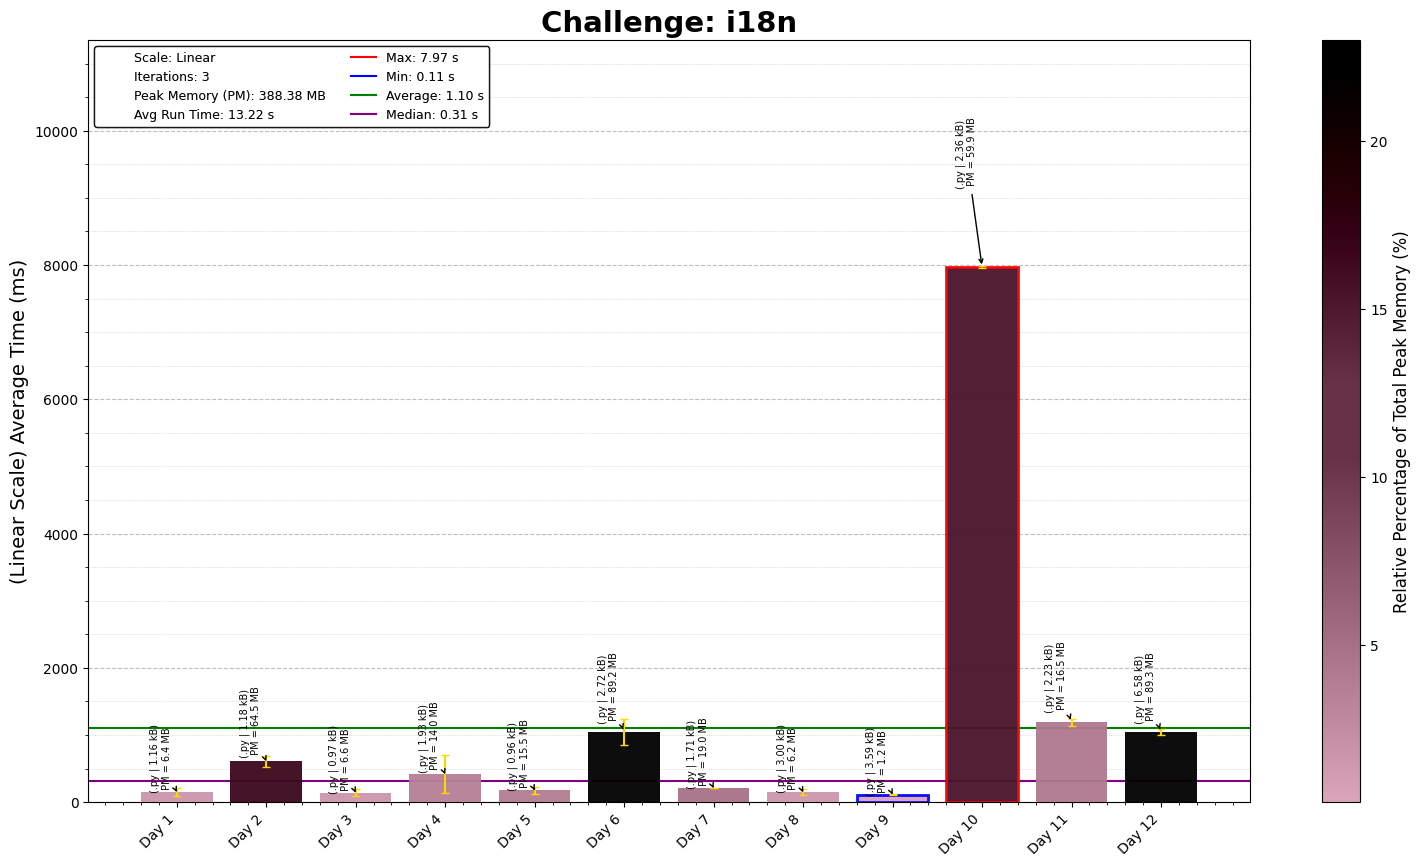
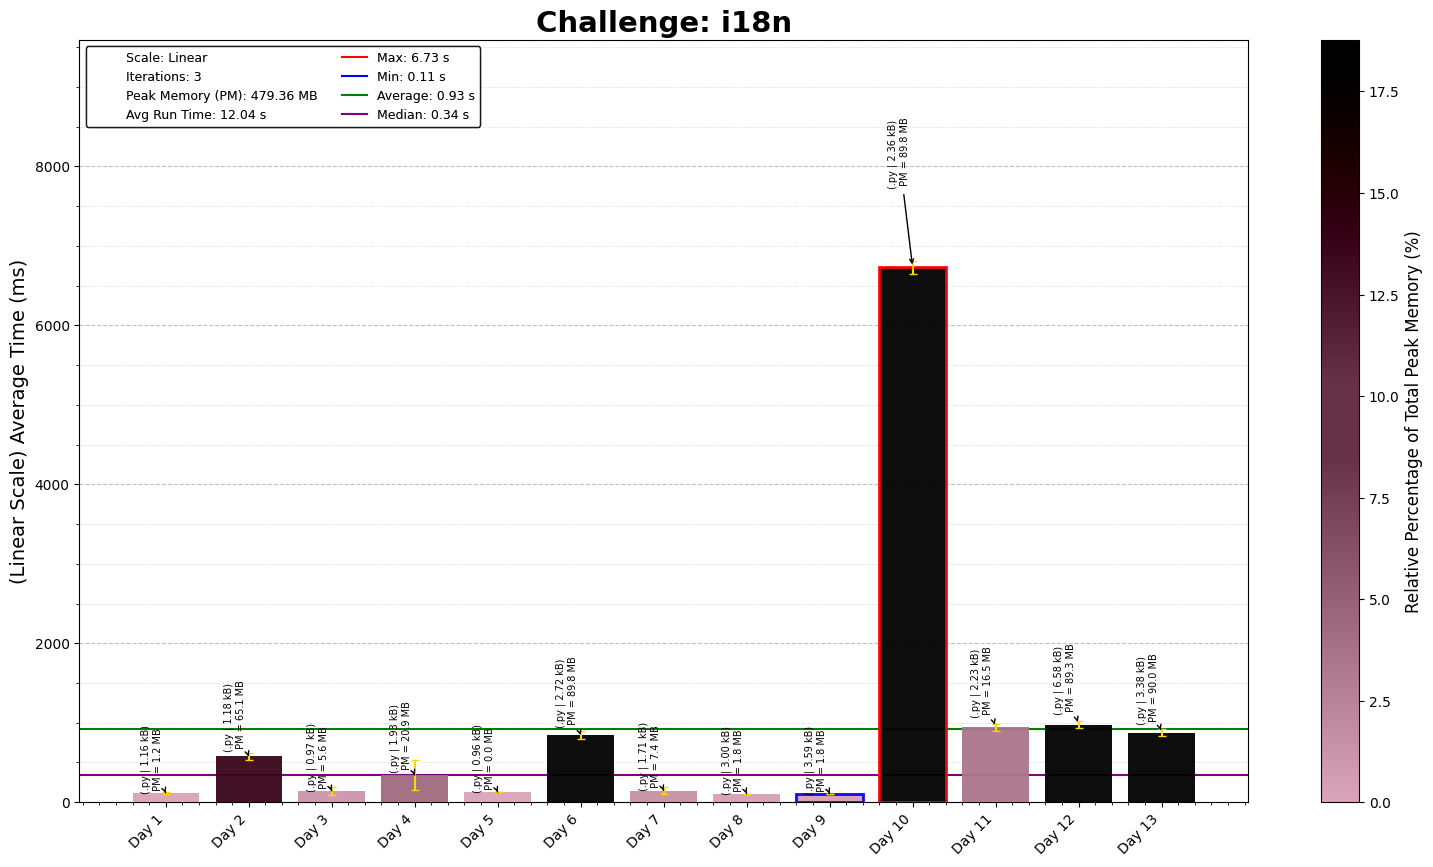
i18n Puzzles 13

diff --git a/i18n/13/i18nDay13.py b/i18n/13/i18nDay13.py
@@ -1,0 +1,101 @@
+"""i18n Puzzles - Puzzle 13
+Solution Started: Mar 25, 2025
+Puzzle Link: https://i18n-puzzles.com/puzzle/13/
+Solution by: Abbas Moosajee
+Brief: [Gulliver's puzzle dictionary]
+"""
+
+#!/usr/bin/env python3
+
+import os, unicodedata
+
+# Load the input data from the specified file path
+D13_file = "Day13_input.txt"
+D13_file_path = os.path.join(os.path.dirname(os.path.abspath(__file__)), D13_file)
+
+# Read and sort input data into a grid
+with open(D13_file_path) as file:
+    input_data = file.read().strip().split('\n\n')
+
+dictionary = input_data[0].split('\n')
+crossword = input_data[1].split('\n')
+
+# List of possible encodings
+possible_formats = ["utf-8", "utf-16-be", "iso-8859-1", "utf-16-le"]
+
+def decode_word(encoded_string: str) -> str:
+
+    def hex_to_bytes(hex_string: str) -> bytes:
+        return bytes(
+            int(hex_string[i:i + 2], 16)
+            for i in range(0, len(hex_string), 2)
+        )
+
+    def is_latin_word(word: str) -> bool:
+        return all(
+            unicodedata.category(char) in ["Lu", "Ll"]
+            for char in word
+        )
+
+    decoded_list = []
+    # Example list of hex-encoded strings
+    # dictionary should be defined before use
+    bytes_object = hex_to_bytes(encoded_string)
+
+    # Remove BOM if present
+    if bytes_object.startswith(b'\xef\xbb\xbf'):
+        bytes_object = bytes_object[3:]
+    elif bytes_object.startswith(b'\xff\xfe'):
+        bytes_object = bytes_object[2:]
+    elif bytes_object.startswith(b'\xfe\xff'):
+        bytes_object = bytes_object[2:]
+
+    # Decode and print result
+    results: set[str] = set()
+    for encoding in possible_formats:
+        try:
+            decoding = bytes_object.decode(encoding)
+            if is_latin_word(decoding):
+                results.add(decoding)
+        except UnicodeDecodeError:
+            pass
+    if len(results) != 1:
+        print(f"{len(results)} possibilities for {bytes_object}: {results}")
+    decoded_word =  results.pop() if results else ""
+    # print(f"{encoded_string} -> {decoded_word}")
+    return decoded_word
+
+decoded_dictionary = [decode_word(string) for string in dictionary]
+
+
+def find_match_words(word_space: str, test_word: str) -> bool:
+    """Checks if a test word matches a word space with letter constraints.
+       Matching is case-insensitive but accent-sensitive.
+    """
+    if len(word_space) != len(test_word):
+        return False
+
+    constraints = {pos: letter for pos, letter in enumerate(word_space) if letter != '.'}
+    
+    # If no constraints, return False immediately
+    if not constraints:
+        return False  
+
+    # Convert test_word to lowercase only once
+    test_word_lower = test_word.lower()
+
+    # Check constraints efficiently
+    return all(test_word_lower[pos] == letter for pos, letter in constraints.items())
+
+# Process words once and store matching indices
+line_sum = 0
+corrected_list_lower = [word.lower() for word in decoded_dictionary]  # Precompute lowercase words
+
+for empty_word in crossword:
+    stripped_word = empty_word.strip()
+    for word_no, word_lower in enumerate(corrected_list_lower, start=1):
+        if find_match_words(stripped_word, word_lower):
+            line_sum += word_no
+            break  # Stop after first match per line
+
+print("Word Line Numbers:", line_sum)

diff --git a/i18n/README_i18n.md b/i18n/README_i18n.md
@@ -16,4 +16,5 @@ This repository contains coding solutions for the i18n puzzles.
 10. **Puzzle 10- Unicode passwords strike back!**: Validating a series of login attempts by checking passwords, using the bcrypt algorithm.
 11. **Puzzle 11- Homer's Cipher**: Decoding a coded message that was fairly simple, except for the way sigma is handled still confused about that.
 12. **Puzzle 12- Sorting It Out**: Sorting it out a list of names in a phone directory
+13. **Puzzle 13- Gulliver's puzzle dictionary**: Fairly similar to Puzzle 6, except for identifying the correct encoding.
 ---
